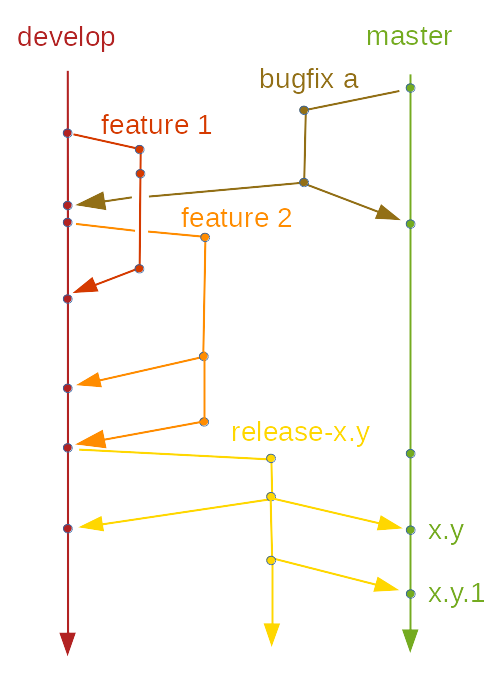
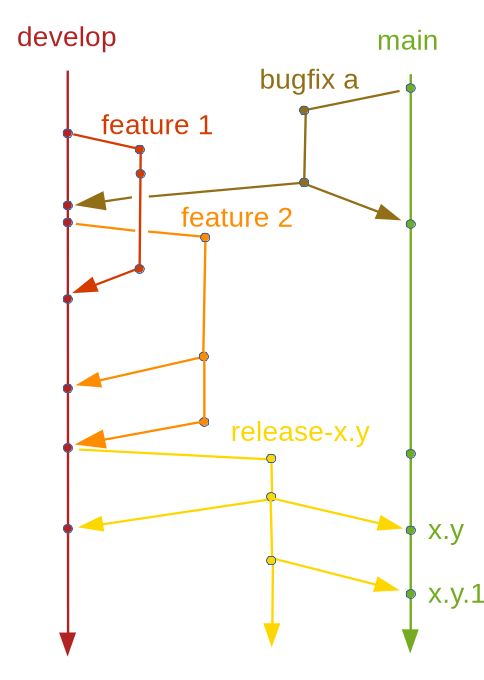
Renamed master branch into main.

diff --git a/src/site/markdown/data/supported-data-types.md b/src/site/markdown/data/supported-data-types.md
@@ -61,7 +61,7 @@ IAU-1980 are both the XML format and the columns format.
 | space weather                                                                            | CSSI format                              | SpaceWeather-All-v1.2.txt                               | [ftp://ftp.agi.com/pub/DynamicEarthData/SpaceWeather-All-v1.2.txt](ftp://ftp.agi.com/pub/DynamicEarthData/SpaceWeather-All-v1.2.txt)  |
 | JB2008 SOLFSMY                                                                           | Space Environment format                 | SOLFSMY.TXT                                             | [https://sol.spacenvironment.net/JB2008/indices/SOLFSMY.TXT](https://sol.spacenvironment.net/JB2008/indices/SOLFSMY.TXT)              |
 | JB2008 DTC                                                                               | Space Environment format                 | DTCFILE.TXT                                             | [https://sol.spacenvironment.net/JB2008/indices/DTCFILE.TXT](https://sol.spacenvironment.net/JB2008/indices/DTCFILE.TXT)              |
-| EOP files to ITRF versions mapping                                                       | Orekit itrf-versions.conf                | itrf-versions.conf                                      | [Orekit Physical Data Archive](https://gitlab.orekit.org/orekit/orekit-data/-/archive/master/orekit-data-master.zip)                  |
+| EOP files to ITRF versions mapping                                                       | Orekit itrf-versions.conf                | itrf-versions.conf                                      | [Orekit Physical Data Archive](https://gitlab.orekit.org/orekit/orekit-data/-/archive/main/orekit-data-main.zip)                      |
 | CCSDS Attitude Data Message                                                              | CCSDS ADM V1 and V2 (KVN and XML)        | none (must be loaded explicitly)                        | various, can be produced by Orekit itself                                                                                             |
 | CCSDS Orbit Data Message                                                                 | CCSDS ODM V2 and V3 (KVN and XML)        | none (must be loaded explicitly)                        | various, can be produced by Orekit itself                                                                                             |
 | CCSDS Tracking Data Message                                                              | CCSDS TDM V1 and V2 (KVN and XML)        | none (must be loaded explicitly)                        | various, can be produced by Orekit itself                                                                                             |

diff --git a/src/site/markdown/release-guide.md b/src/site/markdown/release-guide.md
@@ -69,7 +69,7 @@ that everything is fine on develop branch (i.e. all stages are passed).
 
 ## 2. Prepare Git branch for release
 
-Release will be performed on a dedicated branch, not directly on master or
+Release will be performed on a dedicated branch, not directly on main or
 develop branch. So a new branch must be created as follows and used for
 everything else:
 
@@ -182,7 +182,7 @@ The site is generated locally using:
     LANG=C mvn site
 
 The official site is automatically updated on the hosting platform when work is 
-merged into branches `develop`, `release-*` or `master`.
+merged into branches `develop`, `release-*` or `main`.
 
 ## 9. Tag and sign the git repository
 
@@ -299,23 +299,23 @@ candidate, verified and pushed:
     git tag -v X.Y
     git push --tags
 
-## 14. Merge release branch into master
+## 14. Merge release branch into main
 
-Merge the release branch into the `master` branch to include any changes made.
+Merge the release branch into the `main` branch to include any changes made.
 
-    git checkout master
+    git checkout main
     git merge --no-ff release-X.Y
 
 Then commit and push.
 
-*Good practice*: Again, wait for the CI to succeed and check on SonarQube that the master branch report is fine.
+*Good practice*: Again, wait for the CI to succeed and check on SonarQube that the main branch report is fine.
 
-## 15. Merge master branch into develop
+## 15. Merge main branch into develop
 
-Merge the `master` branch into the `develop` branch to include any changes made.
+Merge the `main` branch into the `develop` branch to include any changes made.
 
     git checkout develop
-    git merge --no-ff master
+    git merge --no-ff main
 
 Then updated the version numbers to prepare for the next development cycle.
 Edit pom.xml version to SNAPSHOT and make space in the `/src/changes/changes.xml`
@@ -370,7 +370,7 @@ Create a new post for the release in `_post/`, it will be visible in the `News` 
 
 Push the modifications on `develop` branch, wait until the pipeline on Gitlab is finished, then the [test website](https://test.orekit.org/) will be updated.
 
-Check that everything looks nice and then merge `develop` on `master` branch and push the modifications.  
+Check that everything looks nice and then merge `develop` on `main` branch and push the modifications.  
 When the Gitlab pipeline is finished, the [official website](https://orekit.org/) should be updated according to your changes.
 
 ## 20. Close X.Y milestone

diff --git a/src/site/markdown/contributing.md b/src/site/markdown/contributing.md
@@ -312,7 +312,7 @@ step to perform are:
 1. Select *Orekit Checkstyle* as *Active*.
 2. Verify that *Scan Scope* is equal to *Only Java sources (but not tests)*.
 3. The *Checkstyle version* shall be equal to the version used by the project. The current version of checkstyle in 
-   Orekit is available in the [pom.xml](https://gitlab.orekit.org/orekit/orekit/-/blob/master/pom.xml) file.
+   Orekit is available in the [pom.xml](https://gitlab.orekit.org/orekit/orekit/-/blob/main/pom.xml) file.
 
 ![properties-checkstyle-intellij](./images/properties-checkstyle-intellij.png)
 
@@ -344,10 +344,10 @@ initialize the project in SonarQube. Here is how to do it.
    This will allow Gitlab to connect to Orekit SonarQube instance.
 
 6. SonarQube dynamically initiates the project on the first submission, but
-   this first submission must be on the **master** branch. You can cause this
+   this first submission must be on the **main** branch. You can cause this
    by manually triggering a pipeline. Starting with Orekit version 11, you
    just need to go to the pipelines page (*Project homepage* -> *CI/CD* ->
-   *Pipelines*), then click on *Run pipeline*, then select the **master**
+   *Pipelines*), then click on *Run pipeline*, then select the **main**
    branch, then click on the *Run pipeline* button. Then wait for half an
    hour, which is approximately the time needed to compile and run the tests.
 
@@ -361,7 +361,7 @@ commands:
 
 ```bash
 $ cd orekit-repository
-$ git switch master
+$ git switch main
 
 $ export JAVA_HOME=/usr/lib/jvm/java-11-openjdk-amd64
 

diff --git a/src/site/markdown/guidelines.md b/src/site/markdown/guidelines.md
@@ -116,16 +116,16 @@ if the developer wants to share work or needs community feedback.
 When a release is desired, a dedicated branch should be created, with a name
 following the pattern release-x.y. These branches are created from the
 develop branch. When the release is ready, the branch is merged both into the
-master branch and into the develop branch. Once a release branch has been set
+main branch and into the develop branch. Once a release branch has been set
 up, it will remain. This allows users relying on this specific version to be
 able to retrieve the fixes published afterward (i.e. x.y.1, x.y.2...).
 
-After a release has been published and pushed to master, it may be necessary
+After a release has been published and pushed to main, it may be necessary
 to publish an urgent bugfix if a serious problem in the released version is
-found. Short-lived bugfix branches that are created directly from master are
-devoted to this. These bugfix branches are merged back into master and develop.
+found. Short-lived bugfix branches that are created directly from main are
+devoted to this. These bugfix branches are merged back into main and develop.
 
-The master branch always refer to the latest stable release performed. No
+The main branch always refer to the latest stable release performed. No
 direct work is done on this branch. It is updated only by merging either
 release branches or bugfix branches branches to it.
 

diff --git a/src/site/markdown/faq.md b/src/site/markdown/faq.md
@@ -223,8 +223,8 @@ USNO tai-utc.dat file. If either file is found in the Orekit configuration, it w
 and the message should not appear.
 
 Configuring data loading is explained in the configuration page. For a start, the simplest configuration
- is to download the [orekit-data-master.zip](https://gitlab.orekit.org/orekit/orekit-data/-/archive/master/orekit-data-master.zip)
-file from the forge, to unzip it anywhere you want, rename the `orekit-data-master` folder that will be created
+ is to download the [orekit-data-main.zip](https://gitlab.orekit.org/orekit/orekit-data/-/archive/main/orekit-data-main.zip)
+file from the forge, to unzip it anywhere you want, rename the `orekit-data-main` folder that will be created
 into `orekit-data` and add the following lines at the start of your program:
 
     File orekitData = new File("/path/to/the/folder/orekit-data");

diff --git a/src/site/markdown/sources.md b/src/site/markdown/sources.md
@@ -27,12 +27,12 @@ orekit-data.zip file which is an example file suitable for a quick start (see
 
 It is also possible to retrieve published versions from the Git repository
 (see next section below), if retrieving either release-x.y branches or the
-master branch.
+main branch.
 
 ## Development version
 
 The development of the Orekit project is done using the [Git](http://git-scm.com/)
-source code control system. Orekit Git master repository is available online. The
+source code control system. Orekit Git main repository is available online. The
 latest developments are in the develop branch. This is the one you want to retrieve
 if you need the latest feature before they are published in an official release.
 See [guidelines](./guidelines.html) for the branching workflow used in Orekit.

diff --git a/src/site/markdown/data/default-configuration.md b/src/site/markdown/data/default-configuration.md
@@ -216,8 +216,8 @@ register them to the `DataProvidersManager` instance.
 ## Quick recommended setup
 
 For convenience, the simplest configuration
-is to download the [orekit-data-master.zip](https://gitlab.orekit.org/orekit/orekit-data/-/archive/master/orekit-data-master.zip)
-file from the forge, to unzip it anywhere users want, rename the `orekit-data-master` folder that will be created
+is to download the [orekit-data-main.zip](https://gitlab.orekit.org/orekit/orekit-data/-/archive/main/orekit-data-main.zip)
+file from the forge, to unzip it anywhere users want, rename the `orekit-data-main` folder that will be created
 into `orekit-data` and add the following lines at the start of users programs:
 
 
